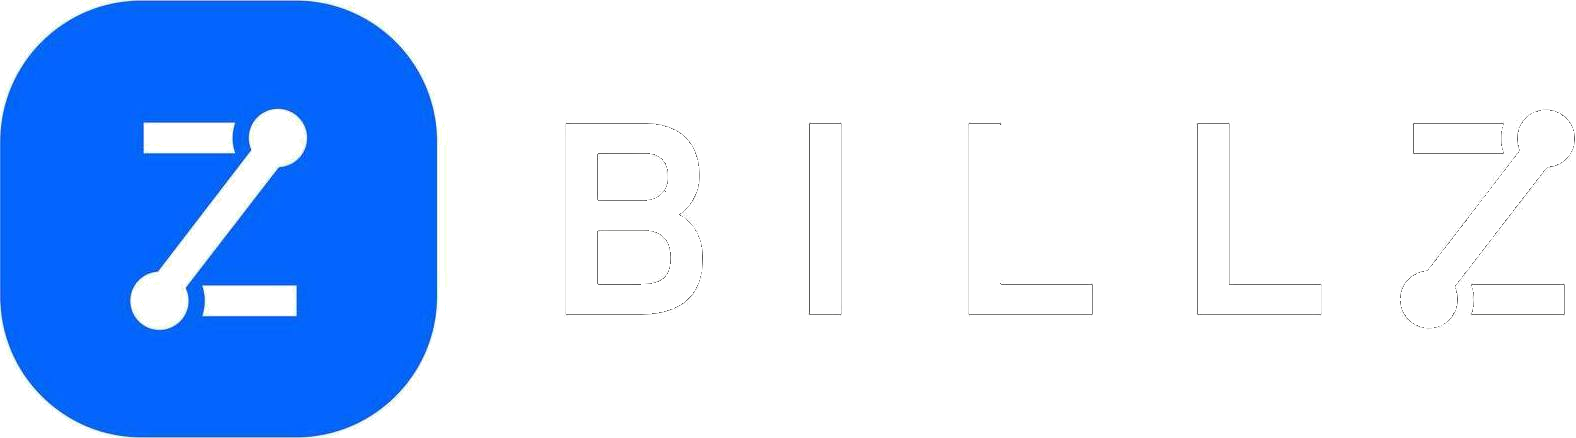
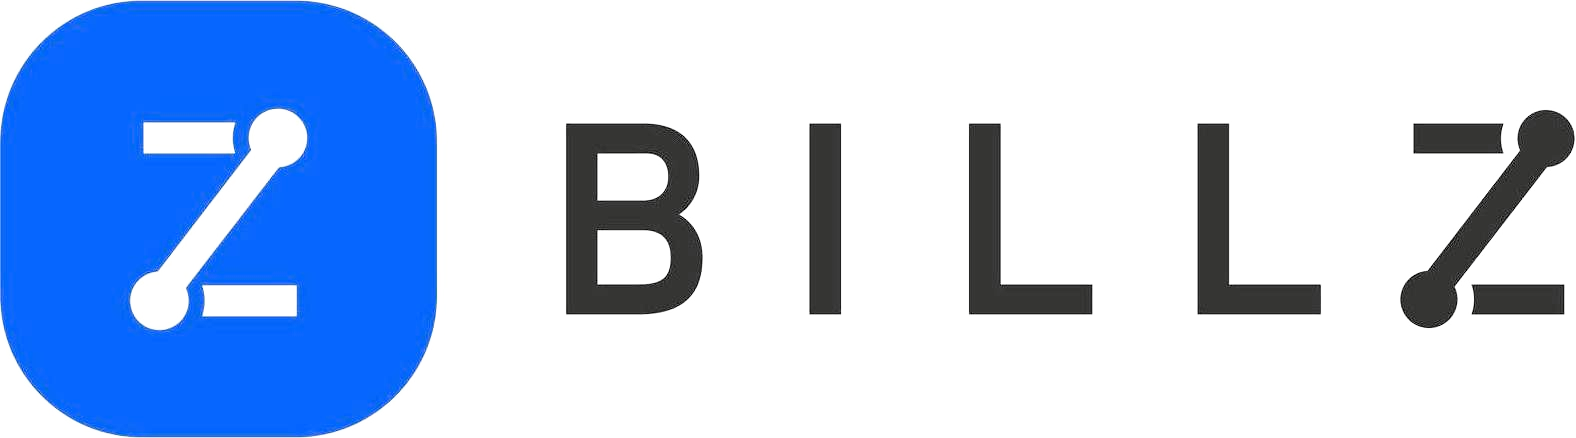
fix: allow /m iframe embedding + stop long-caching Telegram Mini App assets
X-Frame-Options: SAMEORIGIN was still being set on /m (merchant Flutter
web build), blocking Telegram Desktop from rendering it inside its
Mini App iframe — likely the real cause of the persistent blank screen,
on top of the earlier Firebase init crash. Only /tg was exempted before;
now both are. Also force no-cache/must-revalidate on /m and /tg so a
redeploy is never masked by a browser/CDN holding onto the old
main.dart.js (same filename every build).

Also replace the Billz/iiko landing page logos with corrected assets —
the old billz.png had a white wordmark invisible against the section's
white background (present in the original kardly.uz asset too, just
harder to notice there); both are now proper transparent-background PNGs.

diff --git a/backend/main.py b/backend/main.py
@@ -335,12 +335,19 @@ class _SecurityHeadersMiddleware(BaseHTTPMiddleware):
         h.setdefault("Referrer-Policy", "strict-origin-when-cross-origin")
         h.setdefault("Permissions-Policy", "geolocation=(self), camera=(self), microphone=()")
         h.setdefault("Cross-Origin-Opener-Policy", "same-origin")
-        # Telegram Mini App iframe'da ochiladi — unga frame-deny qo'ymaymiz.
-        if not request.url.path.startswith("/tg"):
+        # Telegram Mini App'lar iframe'da ochiladi (ayniqsa Telegram Desktop) —
+        # ularga frame-deny qo'ymaymiz. /m — merchant (Flutter web), /tg — customer.
+        if not (request.url.path.startswith("/tg") or request.url.path.startswith("/m")):
             h.setdefault("X-Frame-Options", "SAMEORIGIN")
         # HSTS — faqat production'da (HTTPS ortida). Dev'da http buzilmasin.
         if _IS_PROD:
             h.setdefault("Strict-Transport-Security", "max-age=31536000; includeSubDomains")
+        # Flutter web build fayllari (main.dart.js va h.k.) har doim BIR XIL
+        # nomda qoladi — CDN/brauzer uzoq muddat keshласа, qayta deploy qilingan
+        # kod ko'rinmay qoladi (aynan shu sabab bo'sh ekran chiqqan edi). Har bir
+        # so'rovda origin bilan qayta tekshirilishini majburlaymiz.
+        if request.url.path.startswith("/m") or request.url.path.startswith("/tg"):
+            h["Cache-Control"] = "no-cache, must-revalidate"
         return response
 
 
